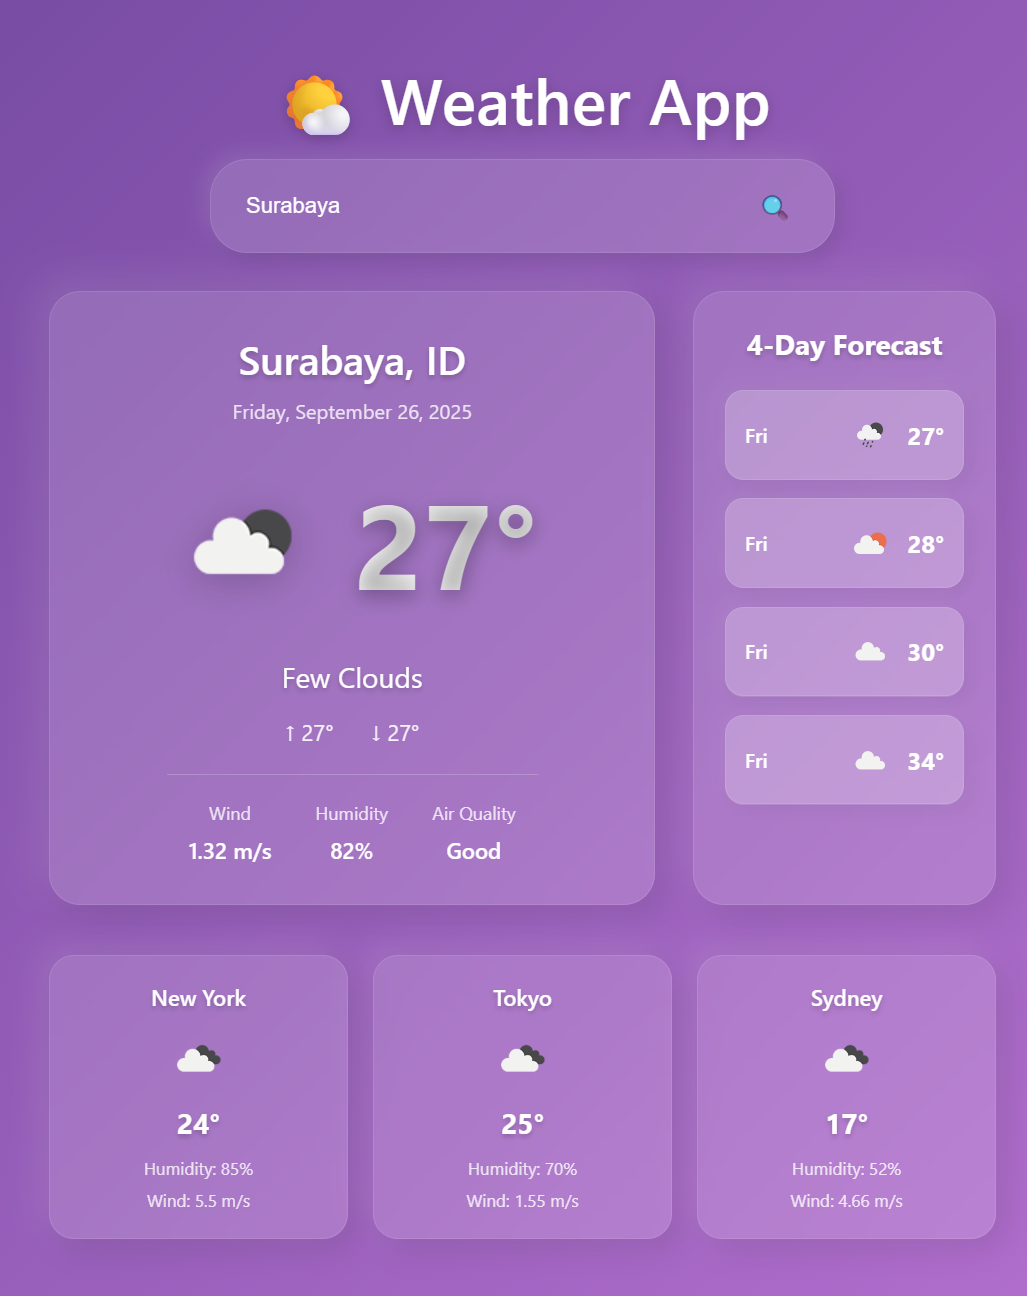
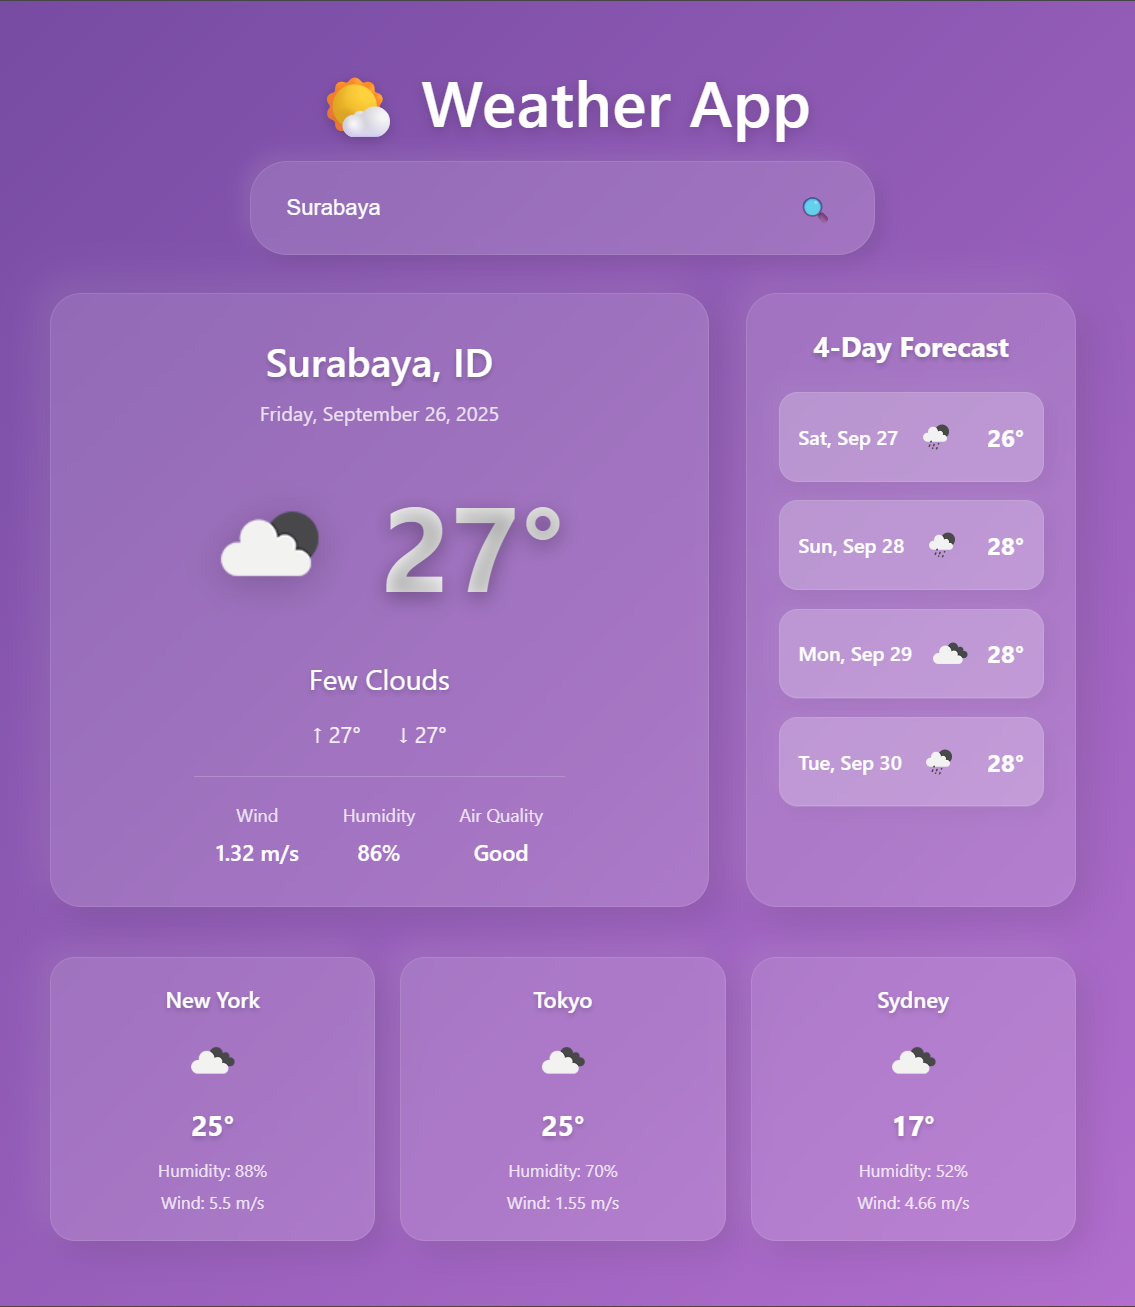
Fix the forecast day and update the screenshot

diff --git a/src/App.jsx b/src/App.jsx
@@ -82,8 +82,32 @@ const WeatherApp = () => {
         `https://api.openweathermap.org/data/2.5/forecast?q=${cityName}&appid=${API_KEY}&units=metric`
       );
       
+      // Extract one forecast per day (every 8 entries ≈ every 24 hours)
+      const dailyForecasts = [];
+      const now = new Date();
+      const seenDays = new Set();
+      
+      for (const item of forecastResponse.data.list) {
+        const date = new Date(item.dt * 1000);
+        const dayKey = date.toDateString(); // Use date string as unique key for the day
+        
+        // Skip if it's the same day as today or we've already seen this day
+        if (date.getDate() === now.getDate() && date.getMonth() === now.getMonth()) {
+          continue;
+        }
+        
+        if (!seenDays.has(dayKey) && dailyForecasts.length < 4) {
+          dailyForecasts.push(item);
+          seenDays.add(dayKey);
+        }
+        
+        if (dailyForecasts.length === 4) {
+          break;
+        }
+      }
+      
       setWeatherData(currentWeatherResponse.data)
-      setForecastData(forecastResponse.data.list.slice(0, 4)) // Get next 4 forecasts as requested
+      setForecastData(dailyForecasts) // Get next 4 unique days
       
       console.log('Weather data fetched successfully', currentWeatherResponse.data);
     } catch (err) {
@@ -297,16 +321,16 @@ const WeatherApp = () => {
             <h3>4-Day Forecast</h3>
             <div className="forecast-container">
               {forecastData.map((day, index) => (
-                <div key={index} className="forecast-day">
-                  <div className="forecast-date">{new Date(day.dt * 1000).toLocaleDateString('en-US', { weekday: 'short' })}</div>
-                  <img 
-                    src={`https://openweathermap.org/img/wn/${day.weather[0].icon}@2x.png`} 
-                    alt={day.weather[0].description}
-                    className="forecast-icon"
-                  />
-                  <div className="forecast-temp">{Math.round(day.main.temp)}°</div>
-                </div>
-              ))}
+  <div key={index} className="forecast-day">
+    <div className="forecast-date">{new Date(day.dt * 1000).toLocaleDateString('en-US', { weekday: 'short', month: 'short', day: 'numeric' })}</div>
+    <img 
+      src={`https://openweathermap.org/img/wn/${day.weather[0].icon}@2x.png`} 
+      alt={day.weather[0].description}
+      className="forecast-icon"
+    />
+    <div className="forecast-temp">{Math.round(day.main.temp)}°</div>
+  </div>
+))}
             </div>
           </div>
         </div>
